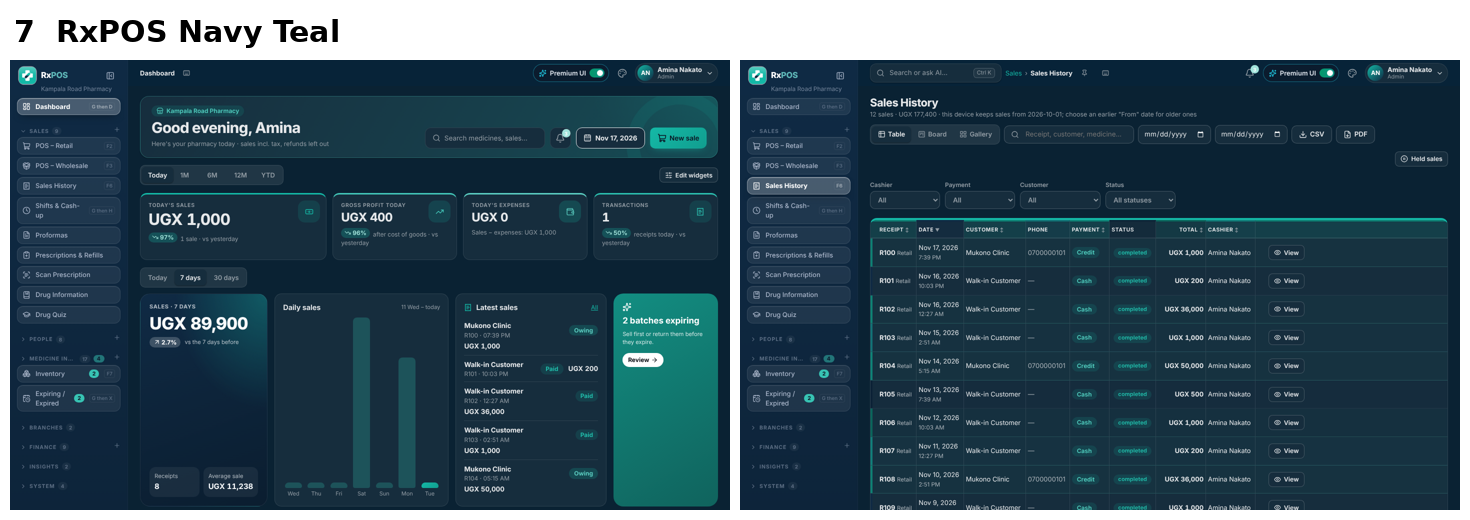
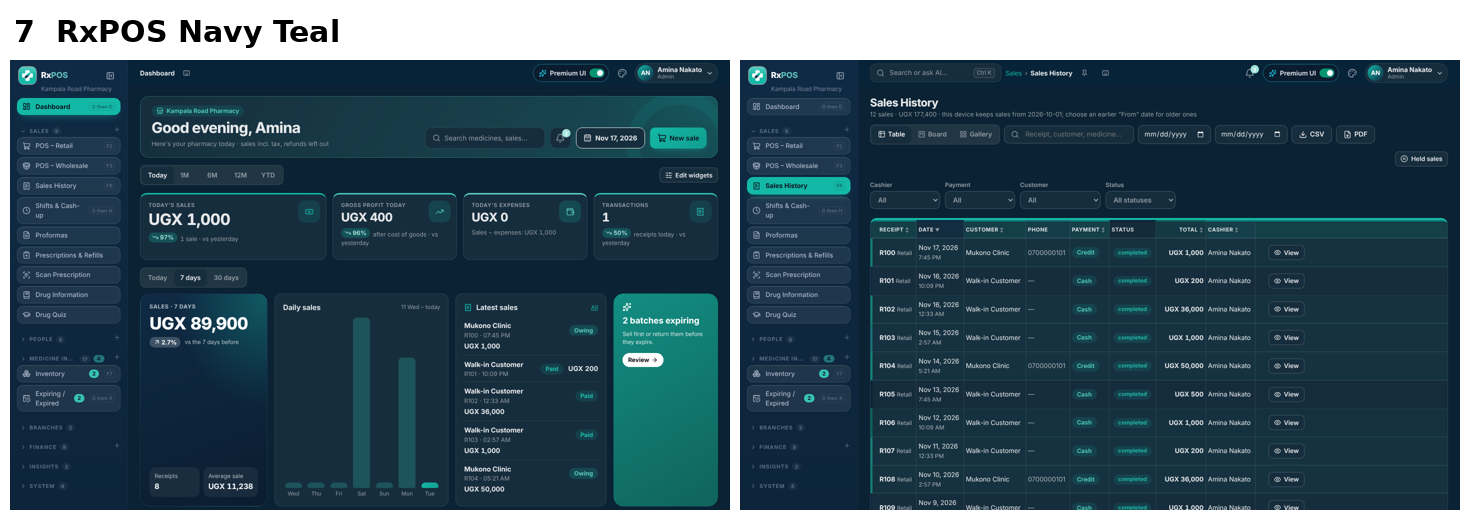
Every theme's menu as Charcoal Lime's: a deep menu of its own colour, soft-glass pages, the open page a solid bright pill
Claude-Session: https://claude.ai/code/session_015uMCYZdrYXjtxk4scNeyiP

Changed region(s): [[0.0, 0.1846, 0.0918, 0.2462], [0.4898, 0.3385, 0.5816, 0.4]]

diff --git a/src/themes.js b/src/themes.js
@@ -56,18 +56,18 @@ const duo = (id, name, group, { c1, c2, side = c1, sideText, base = 'light', ins
 
 export const THEMES = [
   // Bold sidebars: the menu in colour 1, the pages tinted with colour 2
-  duo('electric-blue', 'Electric Blue', 'Bold sidebars', { c1: '#0a4dff', c2: '#dfe8ff', strong: true, inspired: 'Bright blue menu, blue-washed pages' }),
-  duo('royal-purple', 'Royal Purple', 'Bold sidebars', { c1: '#6d4ae8', c2: '#f4f1fd', side: '#3b1a7a', inspired: 'Deep purple menu with white words, violet actions' }),
-  duo('forest-green', 'Forest Green', 'Bold sidebars', { c1: '#1e8c4e', c2: '#dcefe3', strong: true, inspired: 'Green menu, green-washed pages' }),
+  duo('electric-blue', 'Electric Blue', 'Bold sidebars', { c1: '#0a4dff', c2: '#dfe8ff', side: '#101a3a', strong: true, inspired: 'Deep blue menu, bright blue pills' }),
+  duo('royal-purple', 'Royal Purple', 'Bold sidebars', { c1: '#6d4ae8', c2: '#f4f1fd', side: '#1e1433', inspired: 'Deep purple menu with white words, violet actions' }),
+  duo('forest-green', 'Forest Green', 'Bold sidebars', { c1: '#1e8c4e', c2: '#dcefe3', side: '#0f2419', strong: true, inspired: 'Green menu, green-washed pages' }),
   // Dark sidebars and the dark theme
   duo('night-lime', 'Charcoal Lime', 'Dark sidebars', { c1: '#c8f169', c2: '#f4f4f0', side: '#1f1f2a', inspired: 'Charcoal menu, lime pills and buttons with dark words' }),
   duo('charcoal-lime', 'Lime Charcoal', 'Dark sidebars', { c1: '#1f1f2a', c2: '#eef7d6', side: '#c8f169', sideText: '#1f1f2a', strong: true, inspired: 'Lime menu with charcoal words, charcoal actions' }),
   duo('midnight-indigo', 'Midnight Indigo', 'Dark sidebars', { c1: '#5b5bf0', c2: '#e6e6fb', side: '#1b1d2e', strong: true, inspired: 'Midnight menu, indigo actions' }),
   duo('navy-teal', 'RxPOS Navy Teal', 'Dark sidebars', { c1: '#14b8a6', c2: '#0a2233', side: '#0f2a44', base: 'dark', strong: true, inspired: 'Navy and teal: the RxPOS till' }),
   // Soft tints: the whole page washed in colour 2
-  duo('lavender', 'Lavender', 'Soft tints', { c1: '#7451eb', c2: '#e4dcff', strong: true, inspired: 'Violet on lavender' }),
-  duo('sage', 'Sage', 'Soft tints', { c1: '#2f6b45', c2: '#e3eee1', side: '#8fb98b', strong: true, inspired: 'Sage menu, deep green words' }),
-  duo('mint-teal', 'Mint Teal', 'Soft tints', { c1: '#0f8a8a', c2: '#cfe6e6', strong: true, inspired: 'Teal on mint, the RxPOS colour' }),
+  duo('lavender', 'Lavender', 'Soft tints', { c1: '#7451eb', c2: '#e4dcff', side: '#1f1a33', strong: true, inspired: 'Violet on lavender' }),
+  duo('sage', 'Sage', 'Soft tints', { c1: '#2f6b45', c2: '#e3eee1', side: '#18241b', strong: true, inspired: 'Deep sage menu, green pills' }),
+  duo('mint-teal', 'Mint Teal', 'Soft tints', { c1: '#0f8a8a', c2: '#cfe6e6', side: '#0f2222', strong: true, inspired: 'Teal on mint, the RxPOS colour' }),
 ];
 /** Themes retired → the new theme closest to each, so a saved choice or an owner's list keeps working */
 export const RETIRED = {
@@ -119,6 +119,14 @@ export function themeVars(t) {
   };
 }
 
+/** The open page's pill on the menu: the brand colour, brightened (or deepened on a light menu) until it stands out from
+ *  the menu (3:1), with white or dark words, whichever reads better (at least 4.5:1) */
+const menuPill = (c) => {
+  const pill = readable(c.primary, [c.sidebar], lightMenu(c.sidebar) ? '#000000' : '#ffffff', 3);
+  const on = contrast('#ffffff', pill) >= contrast(INK, pill) ? '#ffffff' : INK;
+  return { '--pill': readable(pill, [on], on === '#ffffff' ? '#000000' : '#ffffff'), '--pill-on': on };
+};
+
 /** The logo's second colour (the capsule's lower half): the menu colour when it differs from the brand colour, else a
  *  deeper shade of it */
 const logo2 = (c) => (c.sidebar.toLowerCase() !== c.primary.toLowerCase() && !lightMenu(c.sidebar) ? c.sidebar : mix(c.primary, '#000000', 0.35));
@@ -141,7 +149,7 @@ function duoVars(c, dark) {
   return {
     '--ok': ok, '--ok-soft': soft(0.14), '--warn': warn, '--warn-soft': soft(0.2), '--danger': danger, '--danger-soft': soft(0.26),
     '--violet': shade(0.2), '--violet-soft': soft(0.16), '--info': shade(0.12), '--info-soft': soft(0.14), '--blue': shade(0.1), '--blue-soft': soft(0.14),
-    '--c2': c.c2 || c.bg, '--c1-deep': shade(0.25), '--logo-2': logo2(c), '--menu-lit': readable(c.primary, ['#ffffff'], '#000000'), '--menu-ink': readable(mix(lightMenu(c.sidebar) || c.sidebar === c.primary ? c.primary : c.sidebar, '#000000', 0.62), ['#ffffff', '#f1f4f8'], '#000000', 7), '--row-tint': `${c.rowTint ?? 7}%`, '--row-hover': `${(c.rowTint ?? 7) + 4}%`, '--head-tint': `${c.headTint ?? 16}%`,
+    '--c2': c.c2 || c.bg, '--c1-deep': shade(0.25), '--logo-2': logo2(c), '--menu-lit': readable(c.primary, ['#ffffff'], '#000000'), ...menuPill(c), '--menu-ink': readable(mix(lightMenu(c.sidebar) || c.sidebar === c.primary ? c.primary : c.sidebar, '#000000', 0.62), ['#ffffff', '#f1f4f8'], '#000000', 7), '--row-tint': `${c.rowTint ?? 7}%`, '--row-hover': `${(c.rowTint ?? 7) + 4}%`, '--head-tint': `${c.headTint ?? 16}%`,
     // charts, the till's actions and the Vivid tiles: the same two colours
     '--viz-1': c.primary, '--viz-2': c.sidebar === c.primary ? mix(c.primary, toward, 0.45) : c.sidebar,
     '--m-in': c.primary, '--m-purch': mix(c.primary, toward, 0.35), '--m-exp': danger, '--m-profit': c.sidebar === c.primary ? warn : c.sidebar,

diff --git a/src/styles/duotone.css b/src/styles/duotone.css
@@ -80,26 +80,20 @@
 
   :root[data-palette][data-sidebar='light'] .bento-hero { background: radial-gradient(120% 90% at 100% 0%, color-mix(in srgb, var(--sidebar) 30%, transparent), transparent 60%), linear-gradient(160deg, var(--primary), color-mix(in srgb, var(--primary) 70%, #000)); }
   :root[data-palette] .bento-hero :is(.bento-delta, .bento-delta.up, .bento-delta.down) { background: rgba(255, 255, 255, .2); color: #fff; }
-  /* the menu's pages as light, soft-glass buttons (the owner's review, 17 Nov 2026): a faint see-through fill with a
-     soft edge on the menu colour; the open page a brighter frosted button with a gentle lift */
+  /* the menu (the owner's review, 17 Nov 2026, after Charcoal Lime): a deep menu, its pages as light soft-glass buttons,
+     the open page a solid pill in the theme's bright colour with the button text colour on it */
   :root[data-palette] .sidebar nav a { margin: 0 4px 4px; border-radius: 12px; background: rgba(255, 255, 255, .07); border: 1px solid rgba(255, 255, 255, .10);
     box-shadow: inset 0 1px 0 rgba(255, 255, 255, .08); transition: background .15s, box-shadow .15s; }
   :root[data-palette] .sidebar nav a:hover { background: rgba(255, 255, 255, .14); }
-  :root[data-palette] .sidebar nav a.active, :root[data-palette][data-sidebar] .sidebar nav a.active { background: rgba(255, 255, 255, .24); color: #ffffff; font-weight: 700;
-    border-color: rgba(255, 255, 255, .32); box-shadow: inset 0 1px 0 rgba(255, 255, 255, .35), 0 8px 18px -10px rgba(0, 0, 0, .55); }
-  :root[data-palette] .sidebar nav a.active svg, :root[data-palette][data-sidebar] .sidebar nav a.active svg { color: #ffffff; }
-  :root[data-palette] .sidebar nav a.active::before, :root[data-palette][data-sidebar] .sidebar nav a.active::before { display: none; }
-  /* light menus (Lime, Sage): the same glass, whiter, with the menu's dark words */
+  :root[data-palette][data-sidebar] .sidebar nav a.active { background: var(--pill); color: var(--pill-on); font-weight: 700; border-color: var(--pill);
+    box-shadow: 0 8px 18px -10px color-mix(in srgb, var(--pill) 70%, transparent); }
+  :root[data-palette][data-sidebar] .sidebar nav a.active svg { color: var(--pill-on); }
+  :root[data-palette][data-sidebar] .sidebar nav a.active::before { display: none; }
+  :root[data-palette][data-sidebar] .sidebar nav a.active kbd { color: var(--pill-on); border-color: color-mix(in srgb, var(--pill-on) 35%, transparent); background: transparent; }
+  :root[data-palette][data-sidebar] .sidebar nav a.active .count { background: var(--pill-on); color: var(--pill); }
+  /* a light menu (Lime Charcoal): whiter glass with the menu's dark words; the pill stays solid */
   :root[data-palette][data-sidebar='light'] .sidebar nav a { background: rgba(255, 255, 255, .32); border-color: rgba(255, 255, 255, .5); box-shadow: inset 0 1px 0 rgba(255, 255, 255, .6); }
   :root[data-palette][data-sidebar='light'] .sidebar nav a:hover { background: rgba(255, 255, 255, .5); }
-  :root[data-palette][data-sidebar='light'] .sidebar nav a.active { background: rgba(255, 255, 255, .78); color: var(--sidebar-text); border-color: #ffffff;
-    box-shadow: inset 0 1px 0 #ffffff, 0 8px 18px -10px rgba(0, 0, 0, .35); }
-  :root[data-palette][data-sidebar='light'] .sidebar nav a.active svg { color: var(--sidebar-text); }
-
-  /* Charcoal Lime (the owner's reference): the open page a solid lime pill with charcoal words */
-  :root[data-palette='night-lime'][data-sidebar] .sidebar nav a.active { background: #c8f169; color: #1f1f2a; border-color: #c8f169; box-shadow: 0 8px 18px -10px rgba(200, 241, 105, .6); }
-  :root[data-palette='night-lime'][data-sidebar] .sidebar nav a.active svg { color: #1f1f2a; }
-  :root[data-palette='night-lime'][data-sidebar] .sidebar nav a.active kbd { color: #1f1f2a; border-color: rgba(31, 31, 42, .3); background: transparent; }
 
   /* the page and its cards: colour 2 under, white cards over */
   :root[data-palette] body { background-image: none; }
